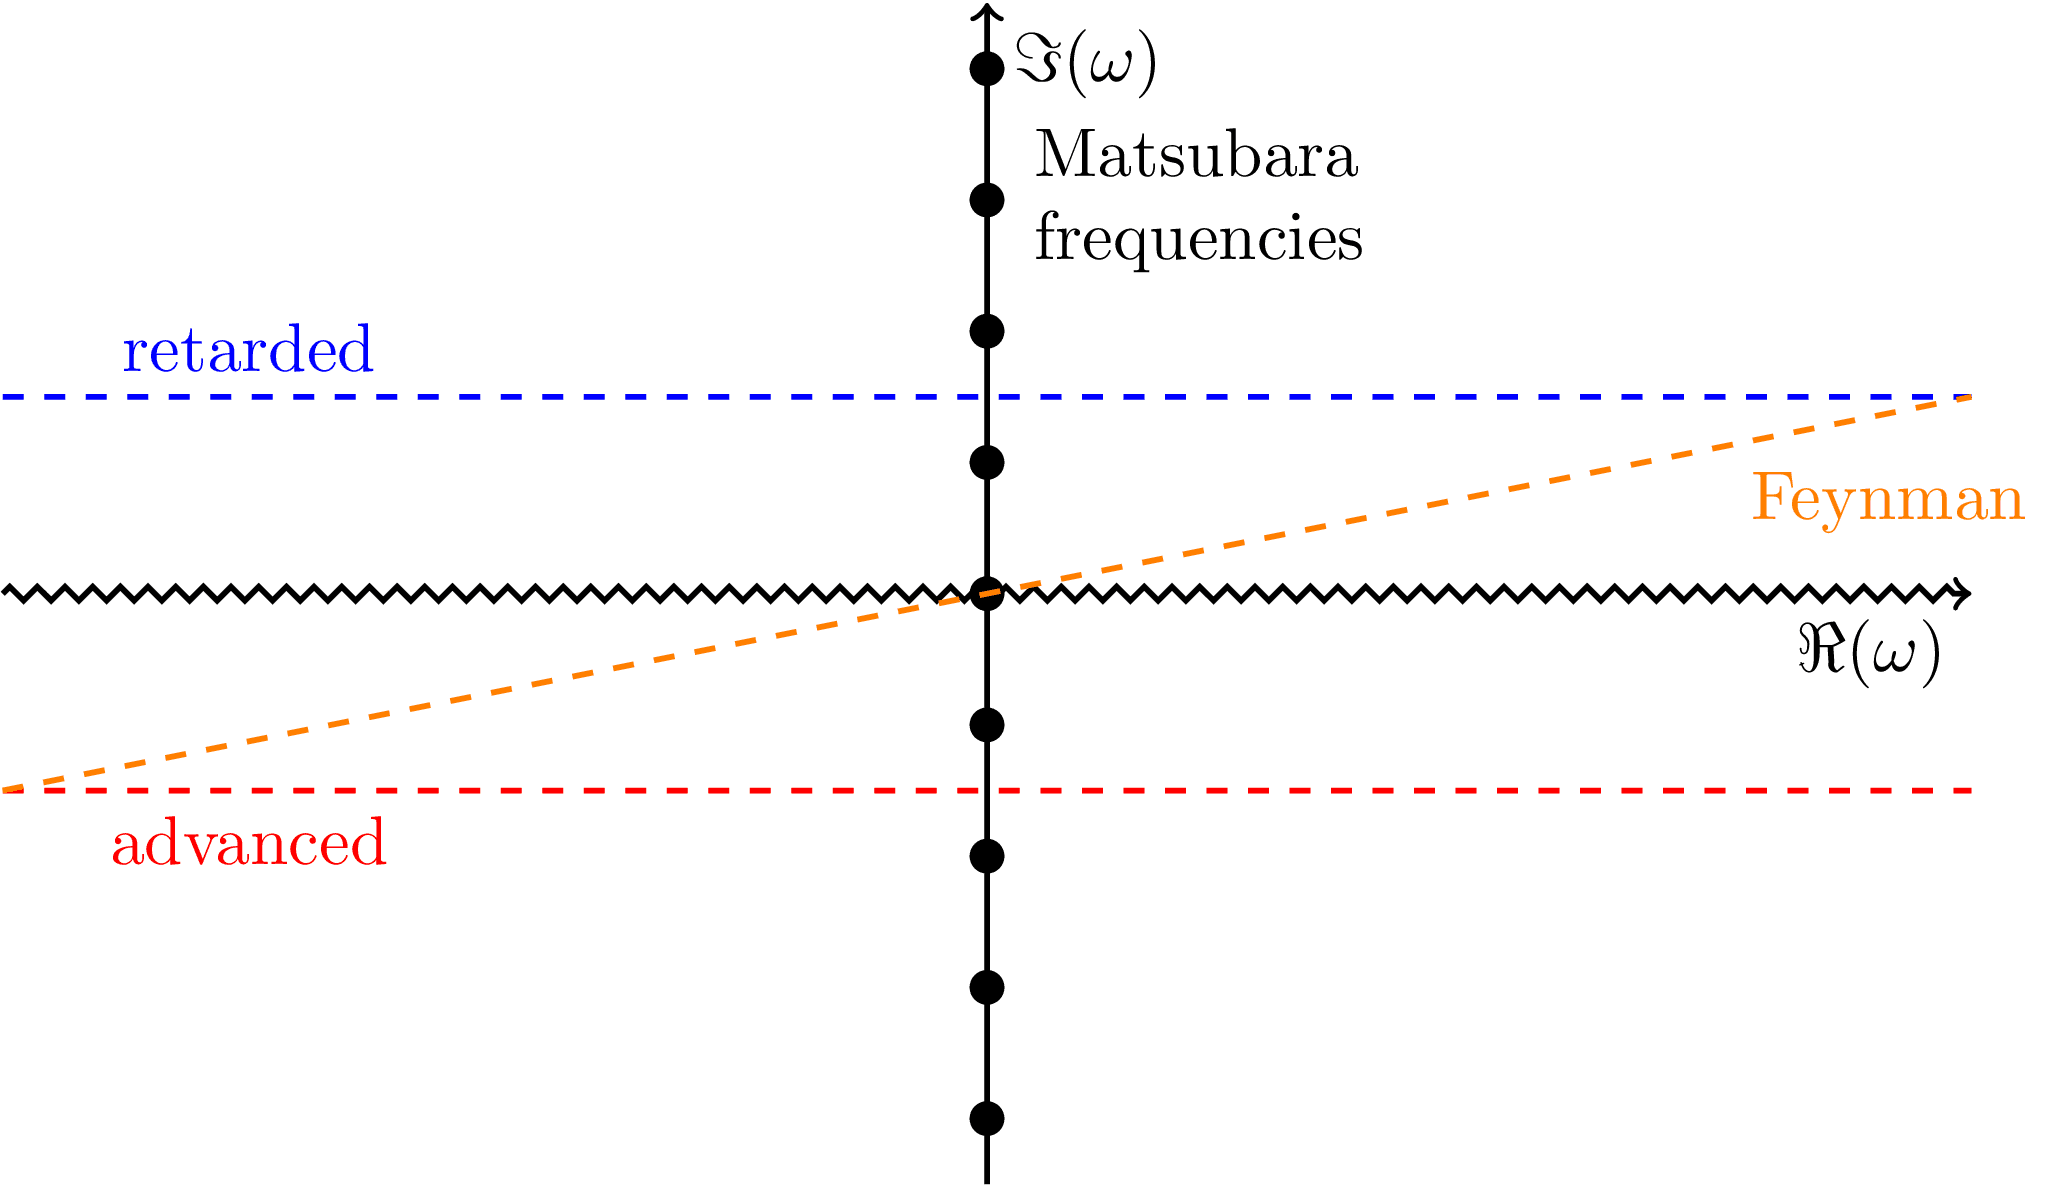
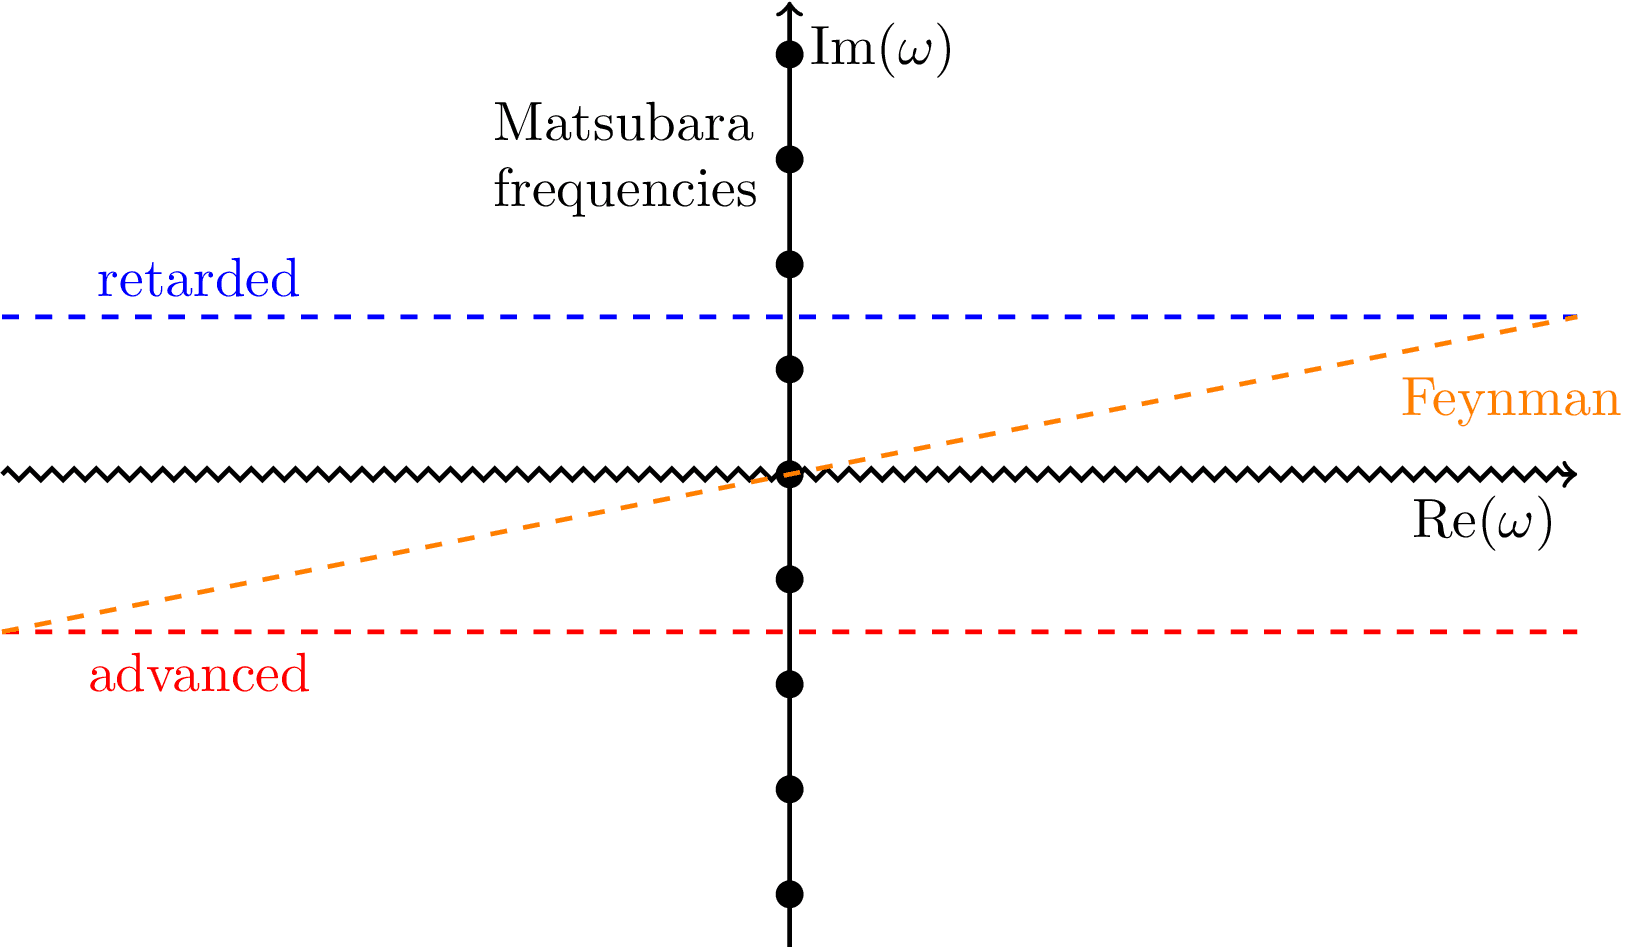
propagators.tex better \Im + \Re operators

diff --git a/assets/propagators/propagators.tex b/assets/propagators/propagators.tex
@@ -1,23 +1,32 @@
 \documentclass[tikz]{standalone}
 
+\usepackage{mathtools}
+
+\let\Im\relax
+\DeclareMathOperator{\Im}{Im}
+\let\Re\relax
+\DeclareMathOperator{\Re}{Re}
+
 \usetikzlibrary{decorations.pathmorphing}
+
+\def\rerange{5}
+\def\imrange{4}
 
 \begin{document}
 \begin{tikzpicture}[thick]
 
   % Axes
-  \def\rerange{5}\def\imrange{4}
-  \draw[->] [decorate,decoration={zigzag,segment length=4,amplitude=1,post=lineto,post length=2}] (-\rerange,0) -- (\rerange,0) node[below left] {$\Re(\omega)$};
-  \draw[->] (0,-\imrange+1) -- (0,\imrange-1) node[below right] {$\Im(\omega)$};
+  \draw[->] [decorate, decoration={zigzag, segment length=4, amplitude=1, post=lineto, post length=2}] (-\rerange, 0) -- (\rerange, 0) node[below left] {$\Re(\omega)$};
+  \draw[->] (0, -\imrange+1) -- (0, \imrange-1) node[below right] {$\Im(\omega)$};
 
-  \foreach \n in {-\imrange,...,\imrange}{%
-      \node[circle,fill,inner sep=0,minimum size=5] (omega\n) at (0,2/3*\n) {};}
-  \node[right=3,align=left] (mf) at (omega3) {Matsubara\\frequencies};
+  \foreach \n in {-\imrange, ..., \imrange}{%
+      \node[circle, fill, inner sep=0, minimum size=5] (omega\n) at (0, 2/3*\n) {};}
+  \node[left=2, align=left] (mf) at (omega3) {Matsubara\\frequencies};
 
   % Propagators
-  \draw[red,dashed] (-\rerange,-1) -- (\rerange,-1) node[below,very near start] {advanced};
-  \draw[blue,dashed] (-\rerange,1) -- (\rerange,1) node[above,very near start] {retarded};
-  \draw[orange,dashed] (-\rerange,-1) -- (\rerange,1) node[below right,very near end] {Feynman};
+  \draw[red, dashed] (-\rerange, -1) -- (\rerange, -1) node[below, very near start] {advanced};
+  \draw[blue, dashed] (-\rerange, 1) -- (\rerange, 1) node[above, very near start] {retarded};
+  \draw[orange, dashed] (-\rerange, -1) -- (\rerange, 1) node[below right, very near end] {Feynman};
 
 \end{tikzpicture}
 \end{document}
